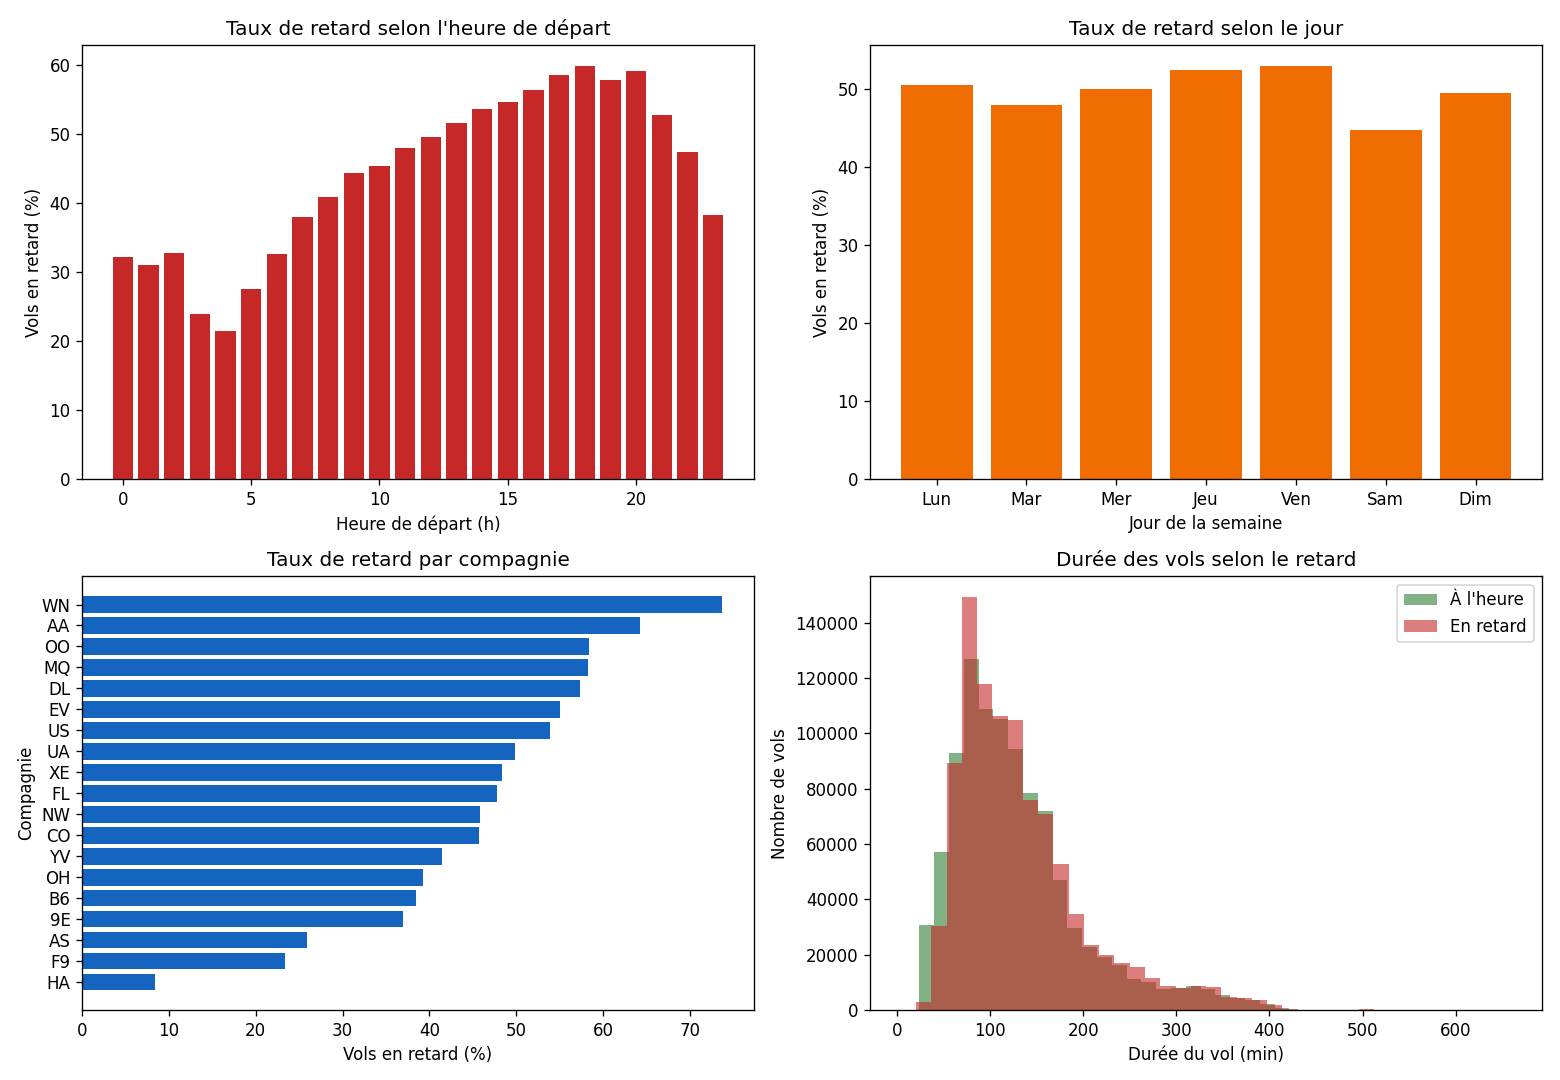
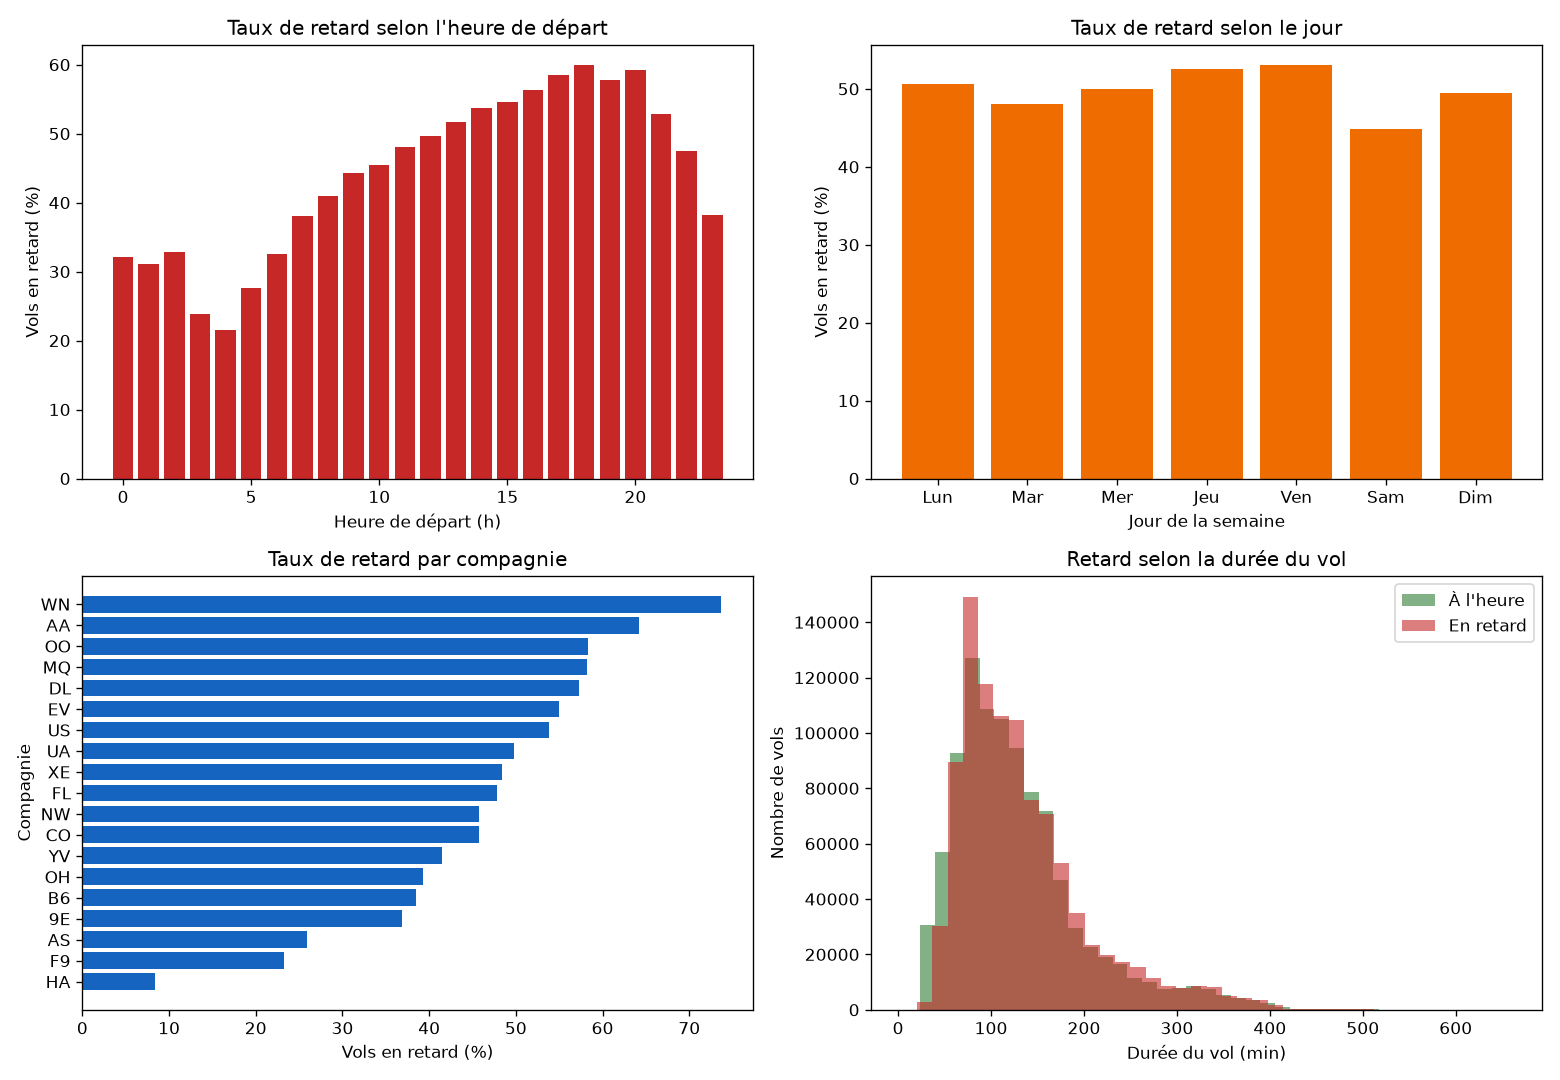
changements mineurs

diff --git a/src/Data.py b/src/Data.py
@@ -3,7 +3,7 @@ from __future__ import annotations
 import os
 from typing import Callable
 
-import numpy as np
+
 import pandas as pd
 from matplotlib.figure import Figure
 from sklearn.model_selection import train_test_split
@@ -183,7 +183,7 @@ class Data(Dataset):
         for delay, couleur, nom in ((0, "#2e7d32", "À l'heure"), (1, "#c62828", "En retard")):
             ax_duree.hist(df.loc[df["Delay"] == delay, "Length"], bins=40, alpha=0.6,
                           color=couleur, label=nom)
-        ax_duree.set(title="Durée des vols selon le retard", xlabel="Durée du vol (min)",
+        ax_duree.set(title="Retard selon la durée du vol", xlabel="Durée du vol (min)",
                      ylabel="Nombre de vols")
         ax_duree.legend()
 

diff --git a/src/model.py b/src/model.py
@@ -2,13 +2,13 @@ from __future__ import annotations
 
 import os
 import json
-from typing import Callable
+
 
 import joblib
 
 import numpy as np
 import pandas as pd
-from matplotlib.figure import Figure
+
 from sklearn.model_selection import train_test_split
 from sklearn.preprocessing import StandardScaler, LabelEncoder
 from sklearn.neighbors import KNeighborsClassifier
@@ -21,6 +21,7 @@ from .outils import chronometrer
 def sigmoid_weights(distances):
     
     return 1 / (1 + np.exp(distances - 1.0))
+
 
 COLONNES_CSV = {"Airline", "Origin", "DayOfWeek", "Time", "Length", "Delay"}
 FEATURES = ["Airline_Encoded", "Origin_Taux", "DayOfWeek", "Time", "Length", "Length_Carre"]
